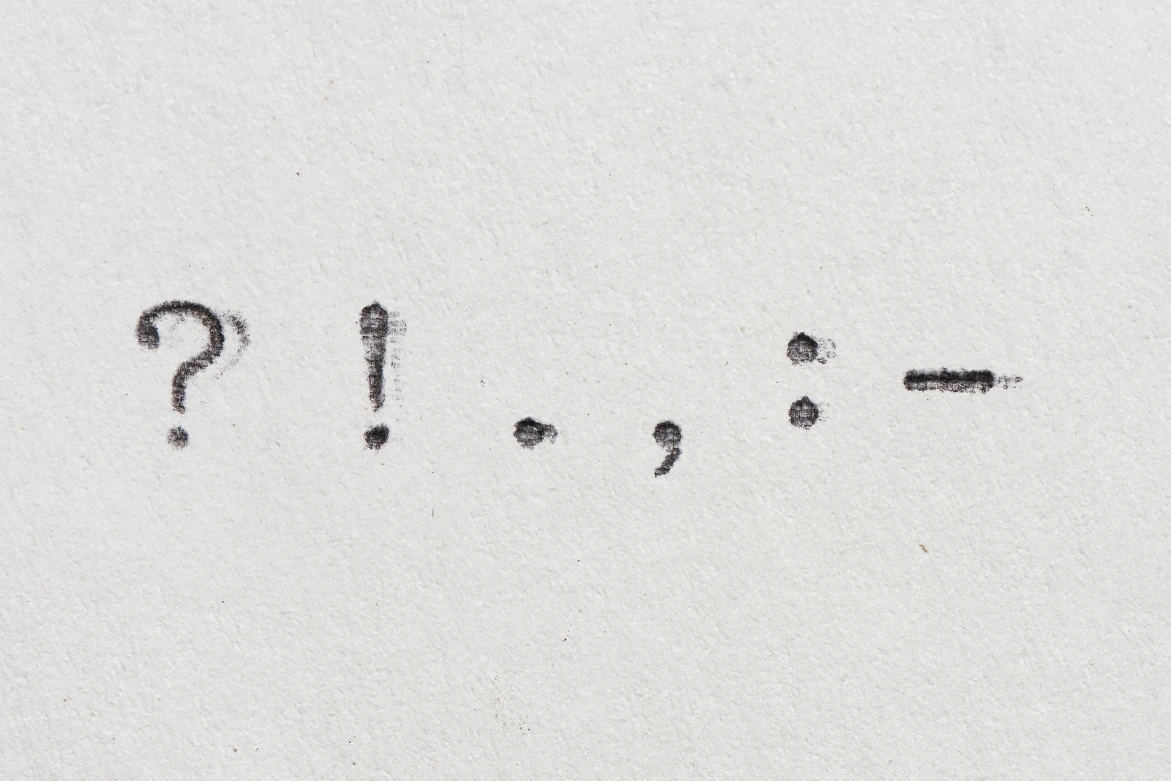
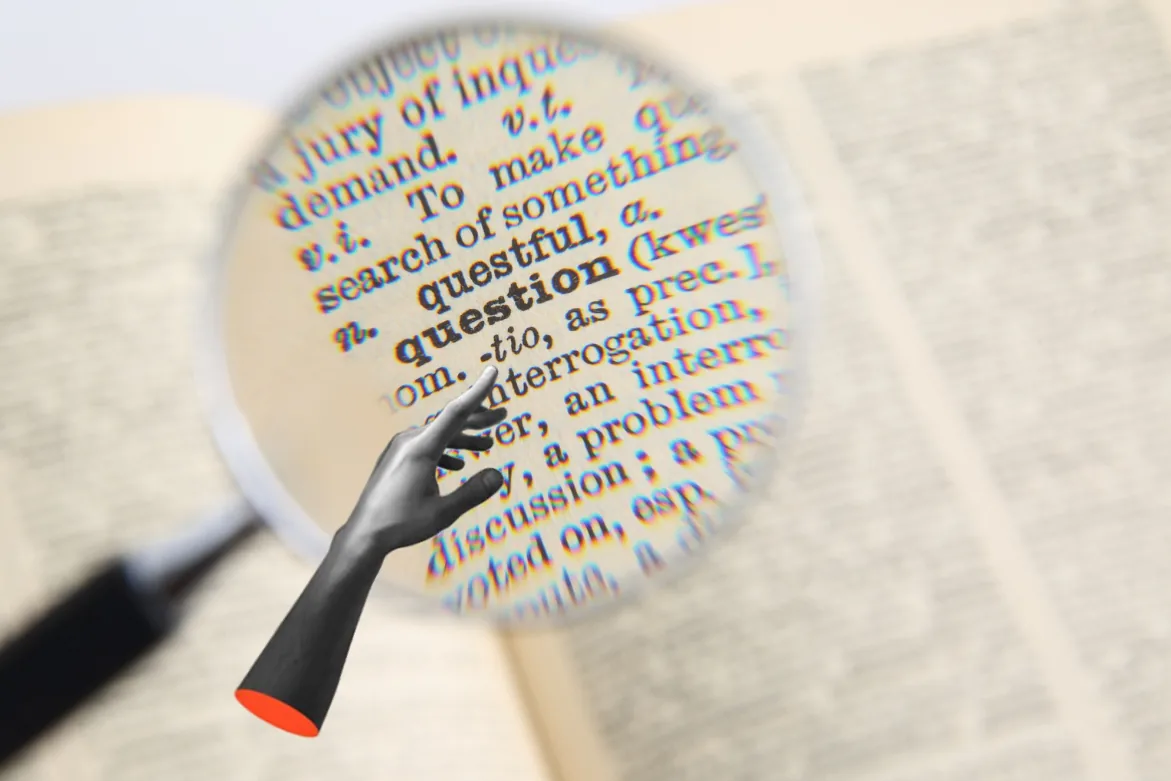
New Canva photos: Markets (exploding typewriter, orange typewriter replaces the newspaper), Ask (magnifier on 'question')

diff --git a/index.html b/index.html
@@ -1830,7 +1830,7 @@ function vFaq(){
 function vAsk(){
   const day=latestDay();
   const nq=(latestPack()?.faq||[]).length;
-  let h = heroFrame({label:"Ask PaperMint", photo:"assets/ask-hero.webp", contain:"#E2E2E0", title:"Ask anything", em:"about today's money news.",
+  let h = heroFrame({label:"Ask PaperMint", photo:"assets/ask-hero.webp", contain:"#D3CDC1", title:"Ask anything", em:"about today's money news.",
     cta:{text:nq?"See today's questions":"Ask your question", attrs:`data-jump="${nq?".faq":".askbox"}"`},
     text:"Answers use the stories collected today and the verified indicators. Scenarios and risks, never buy or sell calls.",
     tiles:srcTiles(day), num:String(nq||(day?.items||[]).length||0), numLabel:nq?"questions answered today, from today's news.":"stories behind today's answers."});
@@ -1862,7 +1862,7 @@ function heroFrame(o){
       <div class="lead"><h1${(o.title+o.em).length>32?' class="long"':""}>${esc(o.title)} <em>${esc(o.em)}</em></h1>
         <div class="acts">${o.cta?`<button class="btn primary cta" type="button" ${o.cta.attrs}>${esc(o.cta.text)} →</button>`:""}${o.extra||""}</div></div>
       <div class="side"><p>${esc(o.text)}</p>
-        <div class="row"><div class="thumb">${o.thumb?`<img src="${o.thumb}" alt="" onerror="this.remove()">`:""}</div>
+        <div class="row"><div class="thumb">${o.thumb?`<img src="${o.thumb}" alt="" onerror="this.remove()"${o.thumbPos?` style="object-position:${o.thumbPos}"`:""}>`:""}</div>
           <div class="stat"><div class="srcs" aria-hidden="true">${o.tiles.map(t=>`<i>${esc(t)}</i>`).join("")}</div>
             <div class="num"><b>${esc(o.num)}</b><span>${esc(o.numLabel)}</span></div></div></div></div>
     </div></div></section>`;
@@ -1870,7 +1870,7 @@ function heroFrame(o){
 function heroHTML(day){
   const n=(day?.sources||[]).length||14;
   return heroFrame({label:"PaperMint", ribbon:"Finance news, freshly minted. · ", title:"Daily fresh", em:"market insights.",
-    photo:"assets/markets-hero.png", contain:"#EAE4D6", thumb:"assets/markets-thumb.jpg",
+    photo:"assets/markets-hero.webp", contain:"#FBF0DE", thumb:"assets/markets-thumb.webp", thumbPos:"50% 60%",
     cta:{text:"Read today's Brief", attrs:'data-jump=".seg" data-go="brief"'},
     text:`What today's news means for your money, in plain English. PaperMint reads ${n} trusted sources every weekday, picks the stories that matter for your savings, loans and investments, and explains them. Educational, never advice.`,
     tiles:srcTiles(day), num:String(n), numLabel:`trusted sources, read ${day?"today":"every weekday"}.`});

diff --git a/src/app.html b/src/app.html
@@ -1631,7 +1631,7 @@ function vFaq(){
 function vAsk(){
   const day=latestDay();
   const nq=(latestPack()?.faq||[]).length;
-  let h = heroFrame({label:"Ask PaperMint", photo:"assets/ask-hero.webp", contain:"#E2E2E0", title:"Ask anything", em:"about today's money news.",
+  let h = heroFrame({label:"Ask PaperMint", photo:"assets/ask-hero.webp", contain:"#D3CDC1", title:"Ask anything", em:"about today's money news.",
     cta:{text:nq?"See today's questions":"Ask your question", attrs:`data-jump="${nq?".faq":".askbox"}"`},
     text:"Answers use the stories collected today and the verified indicators. Scenarios and risks, never buy or sell calls.",
     tiles:srcTiles(day), num:String(nq||(day?.items||[]).length||0), numLabel:nq?"questions answered today, from today's news.":"stories behind today's answers."});
@@ -1663,7 +1663,7 @@ function heroFrame(o){
       <div class="lead"><h1${(o.title+o.em).length>32?' class="long"':""}>${esc(o.title)} <em>${esc(o.em)}</em></h1>
         <div class="acts">${o.cta?`<button class="btn primary cta" type="button" ${o.cta.attrs}>${esc(o.cta.text)} →</button>`:""}${o.extra||""}</div></div>
       <div class="side"><p>${esc(o.text)}</p>
-        <div class="row"><div class="thumb">${o.thumb?`<img src="${o.thumb}" alt="" onerror="this.remove()">`:""}</div>
+        <div class="row"><div class="thumb">${o.thumb?`<img src="${o.thumb}" alt="" onerror="this.remove()"${o.thumbPos?` style="object-position:${o.thumbPos}"`:""}>`:""}</div>
           <div class="stat"><div class="srcs" aria-hidden="true">${o.tiles.map(t=>`<i>${esc(t)}</i>`).join("")}</div>
             <div class="num"><b>${esc(o.num)}</b><span>${esc(o.numLabel)}</span></div></div></div></div>
     </div></div></section>`;
@@ -1671,7 +1671,7 @@ function heroFrame(o){
 function heroHTML(day){
   const n=(day?.sources||[]).length||14;
   return heroFrame({label:"PaperMint", ribbon:"Finance news, freshly minted. · ", title:"Daily fresh", em:"market insights.",
-    photo:"assets/markets-hero.png", contain:"#EAE4D6", thumb:"assets/markets-thumb.jpg",
+    photo:"assets/markets-hero.webp", contain:"#FBF0DE", thumb:"assets/markets-thumb.webp", thumbPos:"50% 60%",
     cta:{text:"Read today's Brief", attrs:'data-jump=".seg" data-go="brief"'},
     text:`What today's news means for your money, in plain English. PaperMint reads ${n} trusted sources every weekday, picks the stories that matter for your savings, loans and investments, and explains them. Educational, never advice.`,
     tiles:srcTiles(day), num:String(n), numLabel:`trusted sources, read ${day?"today":"every weekday"}.`});
